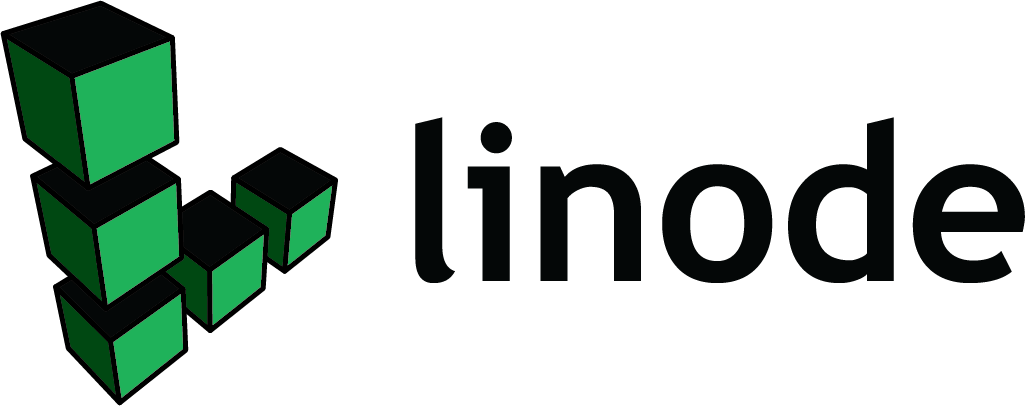
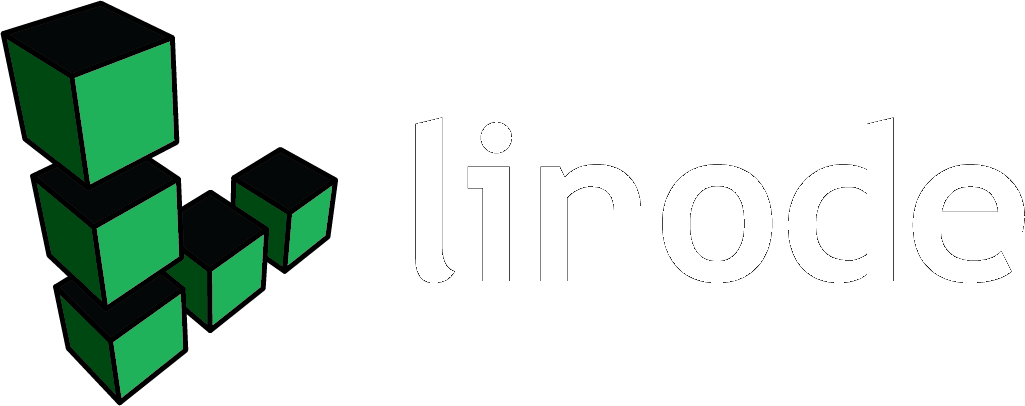
clean images for sponsors

Changed region(s): [[0.5307, 0.2956, 1.0, 0.7094], [0.4059, 0.2956, 0.4995, 0.7094], [0.4683, 0.2956, 0.4995, 0.3842]]

diff --git a/index.html b/index.html
@@ -1502,7 +1502,7 @@
           </a>
           <a target="_blank" href="https://centered.app">
             <img
-              src="img/sponsors/centered2.png"
+              src="img/sponsors/centered.png"
               title="Centered"
               class="img-fluid"
               style="width: 700px"
@@ -1534,7 +1534,7 @@
             />
           </a>
           <a target="_blank" href="https://linode.com">
-            <img src="img/sponsors/linode2.png" title="Linode" />
+            <img src="img/sponsors/linode.png" title="Linode" />
           </a>
           <a target="_blank" href="https://www.get.tech">
             <img
@@ -1552,13 +1552,13 @@
             />
           </a>
           <a target="_blank" href="https://www.discord.com">
-            <img src="img/sponsors/discord-word.png" title="Discord" />
+            <img src="img/sponsors/discord.png" title="Discord" />
           </a>
           <a target="_blank" href="https://www.makeschool.com">
-            <img src="img/sponsors/make-school.png" title="Make School" />
+            <img src="img/sponsors/makeschool.png" title="Make School" />
           </a>
           <a target="_blank" href="https://www.sublimetext.com">
-            <img src="img/sponsors/sublime_4.png" title="Sublime Text" />
+            <img src="img/sponsors/sublime.png" title="Sublime Text" />
           </a>
           <a target="_blank" href="https://www.producthunt.com">
             <img src="img/sponsors/producthunt.webp" title="ProductHunt" />
